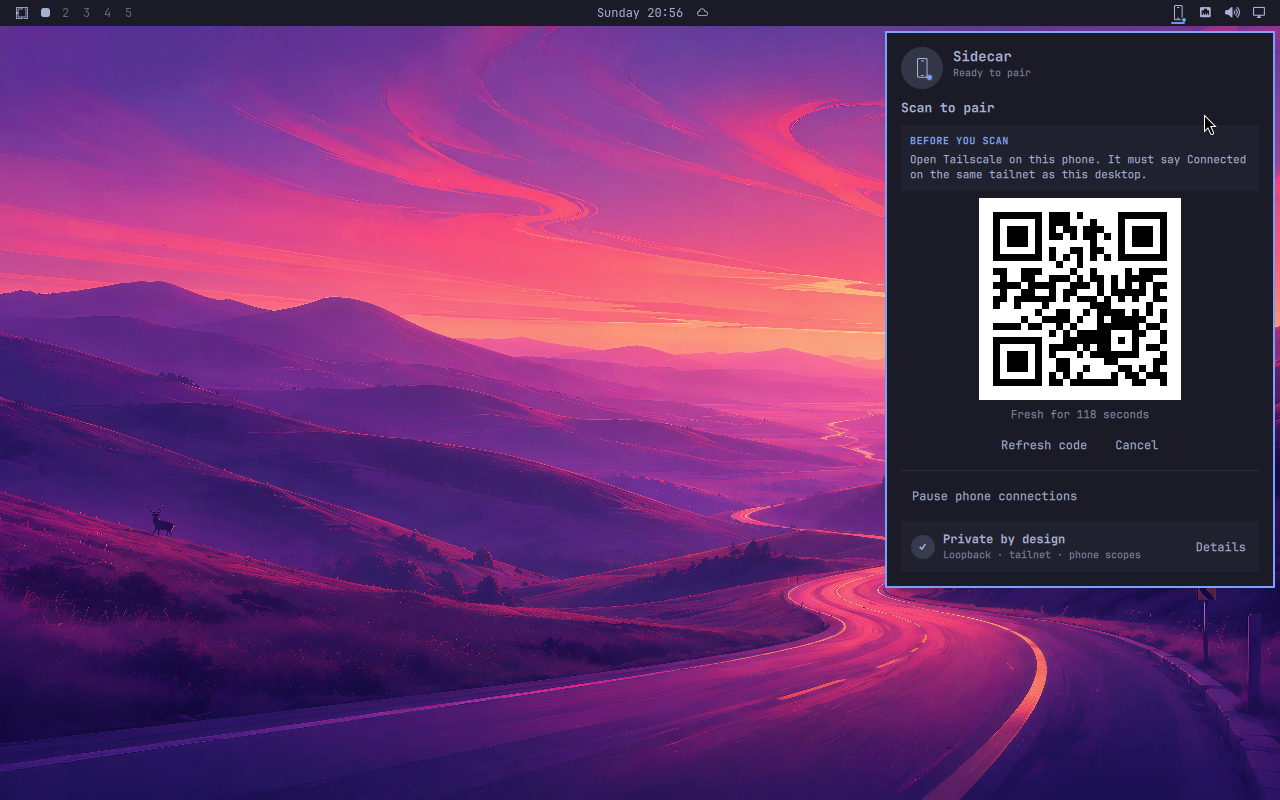
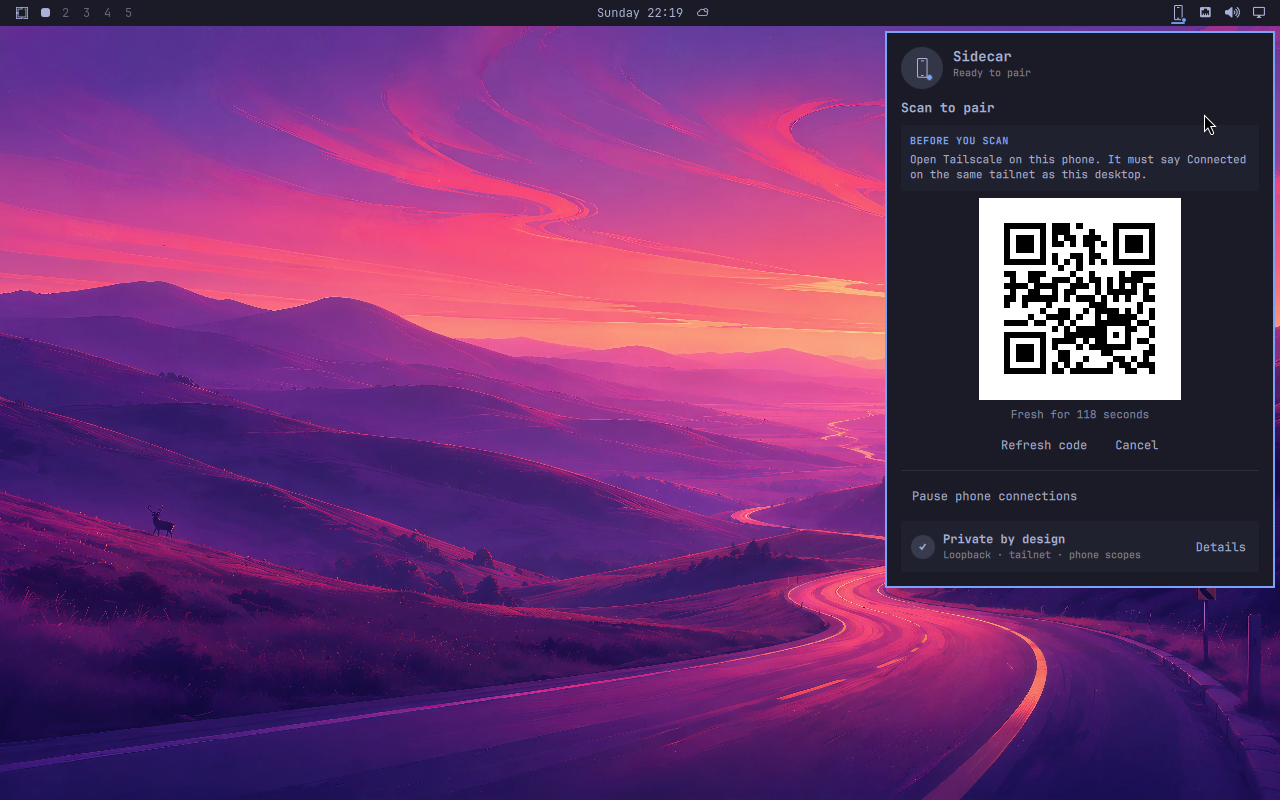
Record final 0.2.1 release evidence

Changed region(s): [[0.75, 0.25, 0.9375, 0.5]]

diff --git a/docs/RELEASE-EVIDENCE.md b/docs/RELEASE-EVIDENCE.md
@@ -14,21 +14,21 @@ The active product is Portal, Morph, contextual Beam, secure pairing, lifecycle 
 | Web contract | 139 assertions pass: picker/share-target contract, private service-worker staging, bounds, explicit confirmation, SHA-256, XHR progress, completed-batch retry guard, remove/cancel/retry, recovery, cleanup, identity, and responsive/reduced-motion rules |
 | Browser, 390×844 | authenticated Portal and Morph exercised in dark Aurora and light Lupine; pairing, connection settings, explicit theme application, Drop confirmation/scope upgrade/success, ARIA dialog/progress state, 48px targets, haptics off, no horizontal overflow, and zero console warnings/errors verified |
 | Browser, 320×700 | authenticated Portal and Morph exercised in dark Aurora and light Lupine; final navigation remained reachable and no horizontal overflow was present |
-| Reduced motion | isolated real Chromium, authenticated at 390×844 with `prefers-reduced-motion: reduce`: zero active animations, no horizontal overflow, and no visible target below 48px |
+| Reduced motion | the web contract asserts the shipped `prefers-reduced-motion: reduce` override disables transitions/animations; the in-app browser does not expose media-preference emulation, so no separate interactive browser claim is made |
 | Light themes | no hardcoded black CSS shadow/glass; contrast repair and separate light layer/border/preview recipes exercised |
 | Agent removal | hook/plugin/provider/task files absent; active Python/QML/web source scanner rejects Carry/Codex runtime surfaces |
 | Pairing identity | same-instance re-pair atomically removes the first credential and stream; same-name/different-instance devices remain separate; raw and hashed instance identity stay out of public state |
 | Security model | tests and artifact scanner cover root refusal, loopback, exact owned route, separate `write:inbox`, length/hash/type/magic, active PDFs, Unicode names, reservations/concurrency/rates, mode/ownership/link count, live lock/pause/revoke/rescope, replay, diagnostics, and private staging |
[1 lines of base64/hex data omitted]
-| Phase 0 | disposable Plugin Lab run `20260830-204636`: Python 3.14 streaming/cancel cleanup, Downloads/reveal, real notification delivery, Android physical boundary, v1012 graph/cache, addressed move, themes/background, and lock truth passed |
-| Missing Tailscale | disposable Plugin Lab run `20260830-205434`: fail-closed first run, delayed binary detection, HTTPS consent, exact Serve readiness, visible recovery/Pair, input recovery, and complete process/listener cleanup passed |
-| Complete lifecycle | disposable Plugin Lab run `20260830-205620`: QMP pairing and same-credential Drop approval; same-browser replacement; exact digest/location/mode/no-overwrite; attention and rendered reveal; Portal focus/order/move; Morph dark/light/apply/undo; lock/pause/revoke/rescope denial; crash/update; route conflict/retry; completed-file retention through removal; product cleanup; and protected-state restoration passed |
-| Repository media | current v1012 Portal and Morph losslessly content-cropped from verified 390/320 browser viewports, authenticated Drop dark/light/success, disposable-lab generic Drop attention, and the pairing panel from run `20260830-205434`; the pairing capture replaces the ephemeral QR with fixed non-authorizing demo text, and the reproducible widescreen README tour contains no real filenames, identities, paths, URLs, or secrets |
[1 lines of base64/hex data omitted]
+| Phase 0 | disposable Plugin Lab run `20260830-221541`: Python 3.14 streaming/cancel cleanup, Downloads/reveal, real notification delivery, Android physical boundary, v1012 graph/cache, addressed move, themes/background, and lock truth passed |
+| Missing Tailscale | disposable Plugin Lab run `20260830-221730`: fail-closed first run, delayed binary detection, HTTPS consent, exact Serve readiness, visible recovery/Pair, input recovery, and complete process/listener cleanup passed |
+| Complete lifecycle | disposable Plugin Lab run `20260830-221918`: QMP pairing and same-credential Drop approval; same-browser replacement; exact digest/location/mode/no-overwrite; attention and rendered reveal; Portal focus/order/move; Morph dark/light/apply/undo; lock/pause/revoke/rescope denial; crash/update; route conflict/retry; completed-file retention through removal; product cleanup; and protected-state restoration passed |
+| Repository media | current v1012 Portal and Morph losslessly content-cropped from verified 390/320 browser viewports, authenticated Drop dark/light/success, disposable-lab generic Drop attention from run `20260830-221918`, and pairing from run `20260830-221730`; the pairing capture replaces the ephemeral QR with fixed non-authorizing demo text, and the deterministic 14.15-second widescreen README tour contains no real filenames, identities, paths, URLs, or secrets |
 | Artifact | deterministic tarball, checksum repeat, and final release-security/artifact scan recorded below |
 
[2 lines of base64/hex data omitted]
 
-The pre-change performance baseline was 0.160% idle CPU, 31,760 KiB idle RSS, 48,256 KiB peak/final RSS, 38.677/41.353 ms warm snapshot median/p95, 39.505/41.647 ms action median/p95, and 73.127 ms upload latency. The final result reduced CPU, RSS, and upload latency; snapshot median rose 3.7%, snapshot p95 0.8%, action median 1.3%, and action p95 0.1%. No material regression was observed.
+The pre-change performance baseline was 0.160% idle CPU, 31,760 KiB idle RSS, 48,256 KiB peak/final RSS, 38.677/41.353 ms warm snapshot median/p95, 39.505/41.647 ms action median/p95, and 73.127 ms upload latency. The final result reduced idle CPU, action latency, and upload latency. RSS moved by only 72 KiB idle and 112 KiB peak; snapshot median/p95 rose 6.4%/4.2%. No material regression was observed.
 
 ## Final artifact
 

diff --git a/docs/SCREENSHOTS.md b/docs/SCREENSHOTS.md
@@ -27,9 +27,9 @@ The `-390` and `-320` suffixes record the browser viewport used for verification
 
 Current desktop media:
 
-- `desktop-sidecar-drop-attention.png`, captured only in the disposable Plugin Lab.
-- `desktop-sidecar-pairing.png`, based on disposable Plugin Lab run `20260830-205434`; its QR payload is the fixed non-authorizing text `SIDECAR-DEMO-NOT-A-PAIRING-SECRET`, never a pairing URL or secret.
+- `desktop-sidecar-drop-attention.png`, captured only in disposable Plugin Lab run `20260830-221918`.
+- `desktop-sidecar-pairing.png`, based on disposable Plugin Lab run `20260830-221730`; its QR payload is the fixed non-authorizing text `SIDECAR-DEMO-NOT-A-PAIRING-SECRET`, never a pairing URL or secret.
 
-The repository-header GIF uses six concise scenes at a calm reading pace: product overview → normal-camera pairing → Portal → Morph → Drop → private-by-design. It must use real current captures, remain legible at README width, and never imply remote terminal, agent, screen sharing, arbitrary file access, cloud relay, or unsupported platform behavior. Rebuild it deterministically with `make marketing-gif` after replacing the required current-product captures.
+The repository-header GIF uses six concise scenes over 14.15 seconds at a calm reading pace: product overview → normal-camera pairing → Portal → Morph → Drop → private-by-design. It must use real current captures, remain legible at README width, and never imply remote terminal, agent, screen sharing, arbitrary file access, cloud relay, or unsupported platform behavior. Rebuild it deterministically with `make marketing-gif` after replacing the required current-product captures.
 
 Screenshots prove visual composition only. Protocol, action, lock, route, and cleanup claims require machine assertions.

diff --git a/docs/RELEASE-NOTES.md b/docs/RELEASE-NOTES.md
@@ -1,0 +1,21 @@
+# Sidecar 0.2.1
+
+Sidecar puts a small, purpose-built Omarchy companion on a phone already connected through the same Tailscale tailnet.
+
+## Highlights
+
+- **Portal:** switch workspaces, focus apps, and deliberately move a window between workspaces.
+- **Morph:** preview installed Omarchy themes, apply one, undo, or advance the desktop background.
+- **Beam:** previous, play/pause, and next—three typed media actions, with no remote shell.
+- **Drop:** explicitly send up to five allowed screenshots or small documents to the fixed `Downloads/Sidecar` inbox after separate local approval.
+- **Pairing:** normal-camera QR flow, matching verification words, per-phone credentials, exact scopes, pause, revoke, and fail-closed lock behavior.
+
+## Security boundary
+
+Sidecar runs unprivileged, listens only on loopback, reuses an existing signed-in Tailscale identity, owns one exact private Serve route, and never changes Tailscale SSH, firewall, sudoers, accounts, packages, or system services. It has no cloud relay, telemetry, arbitrary filesystem access, terminal, screen stream, keyboard, pointer, or agent control.
+
+## Verification
+
+Release `0.2.1` uses immutable runtime graph `v1012`. Source and web suites, exact responsive browser acceptance, a 300-second idle/performance probe, release-security and reproducible-artifact checks, and three disposable Omarchy Plugin Lab scenarios passed. Physical Android foreground pairing was previously observed; the installed-PWA share-target and complete Drop journey remain an explicitly documented physical-device boundary.
+
+See [release evidence](RELEASE-EVIDENCE.md), [security design](SECURITY.md), and the root [changelog](../CHANGELOG.md) for detail.
